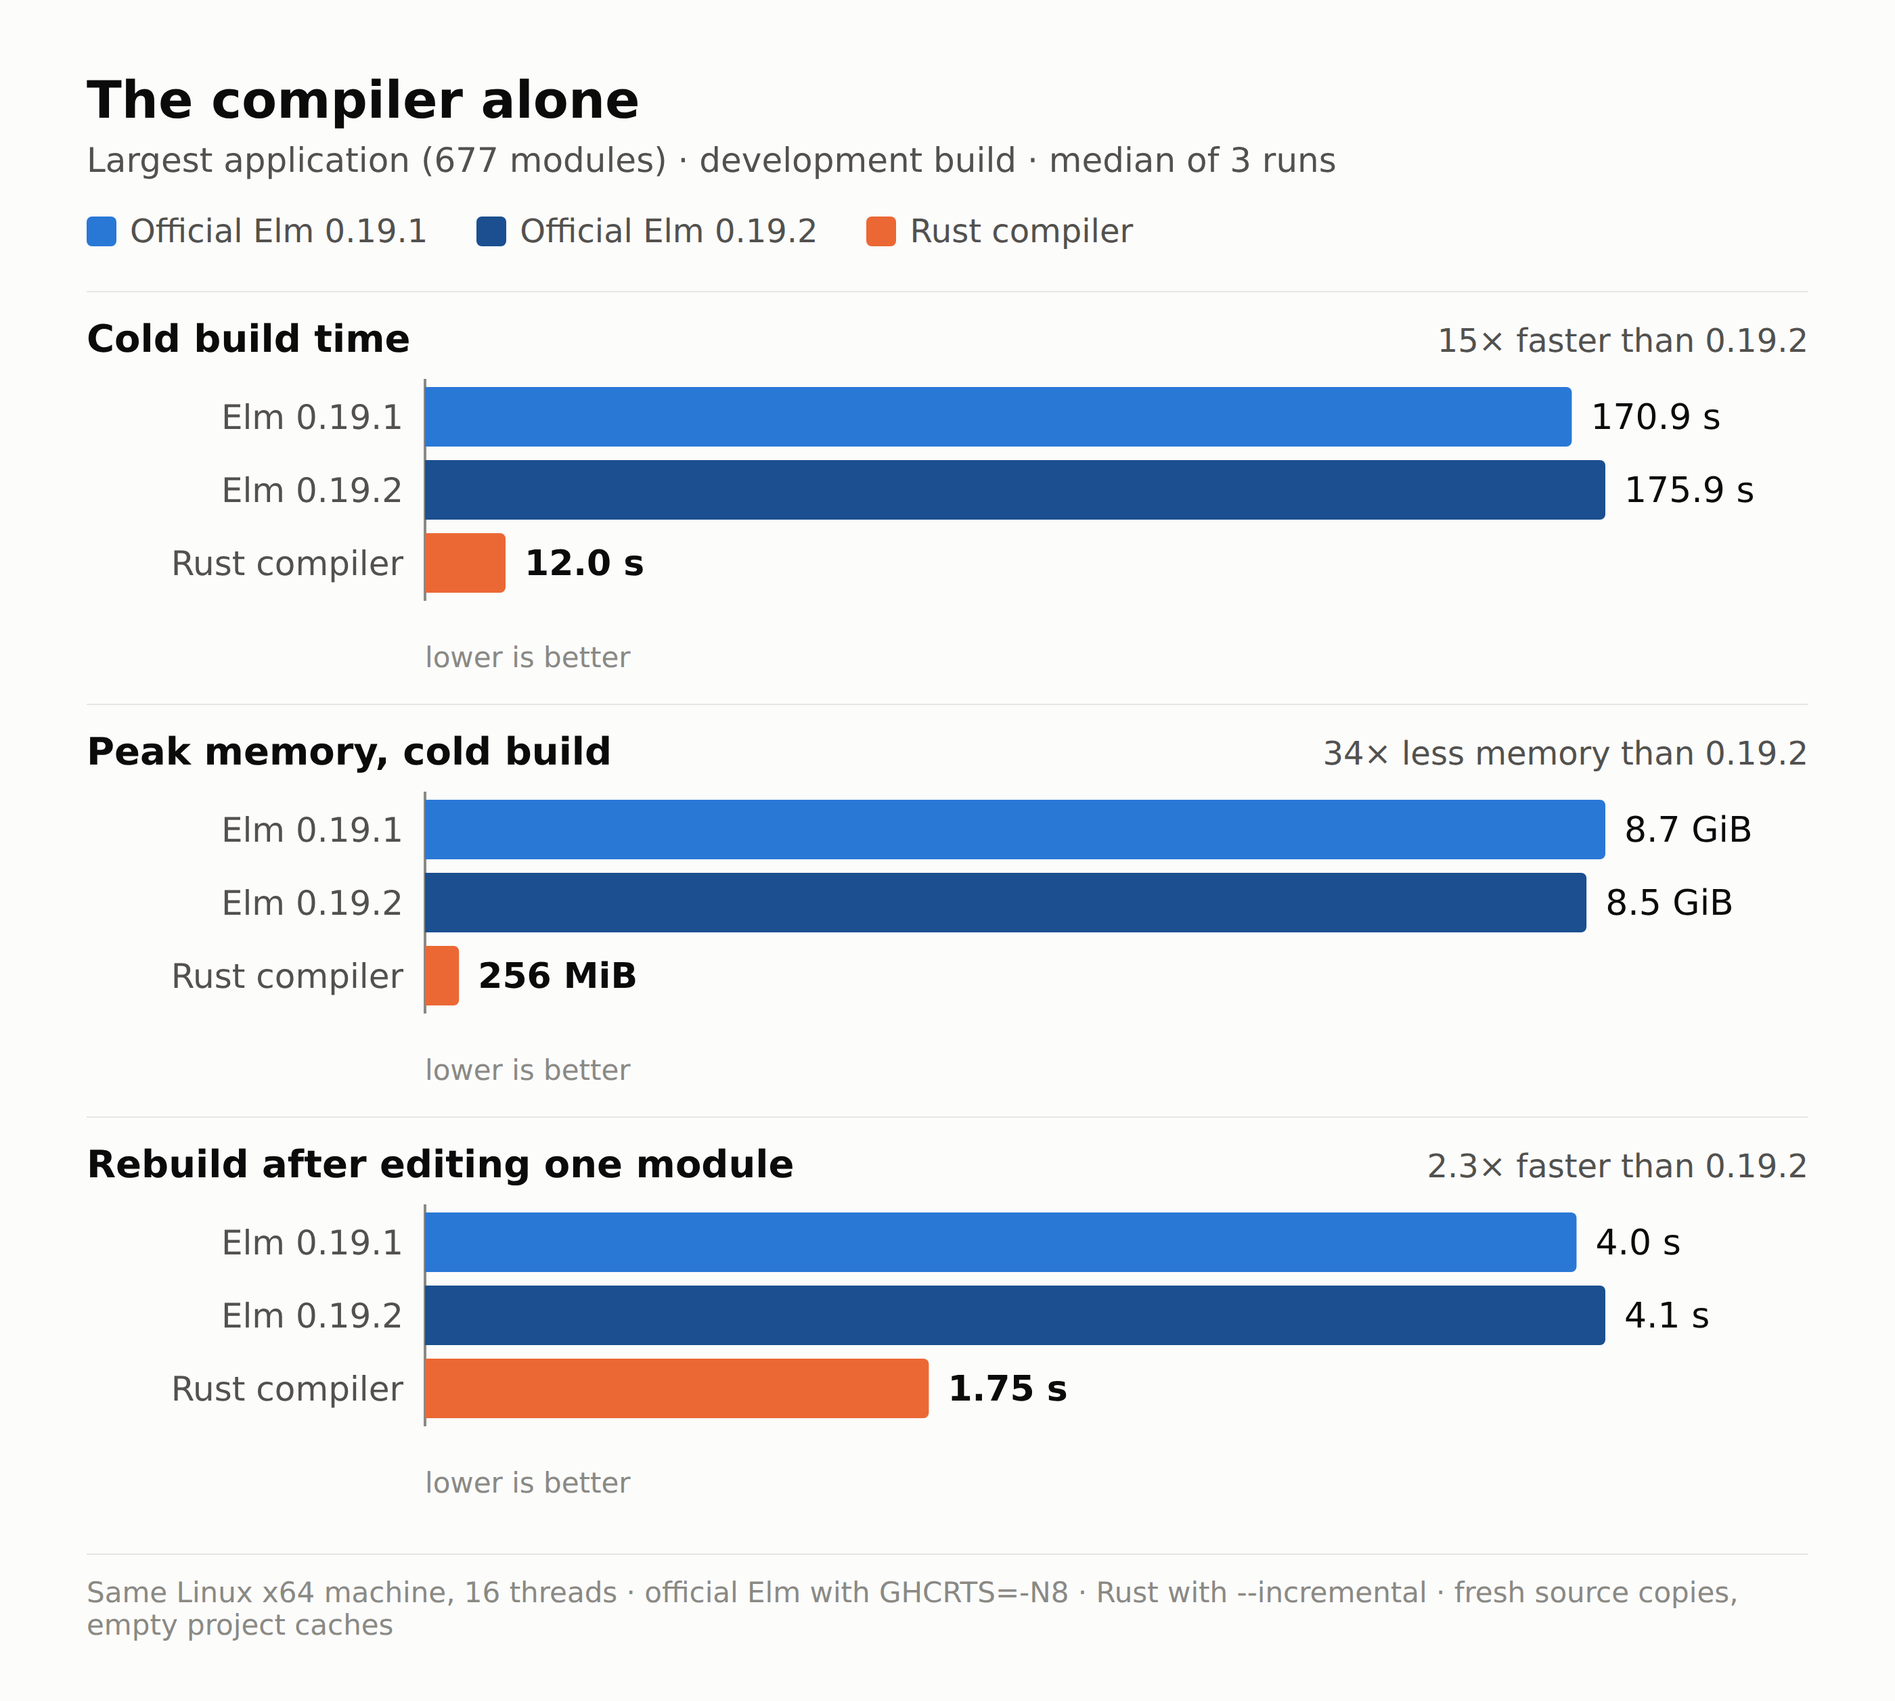
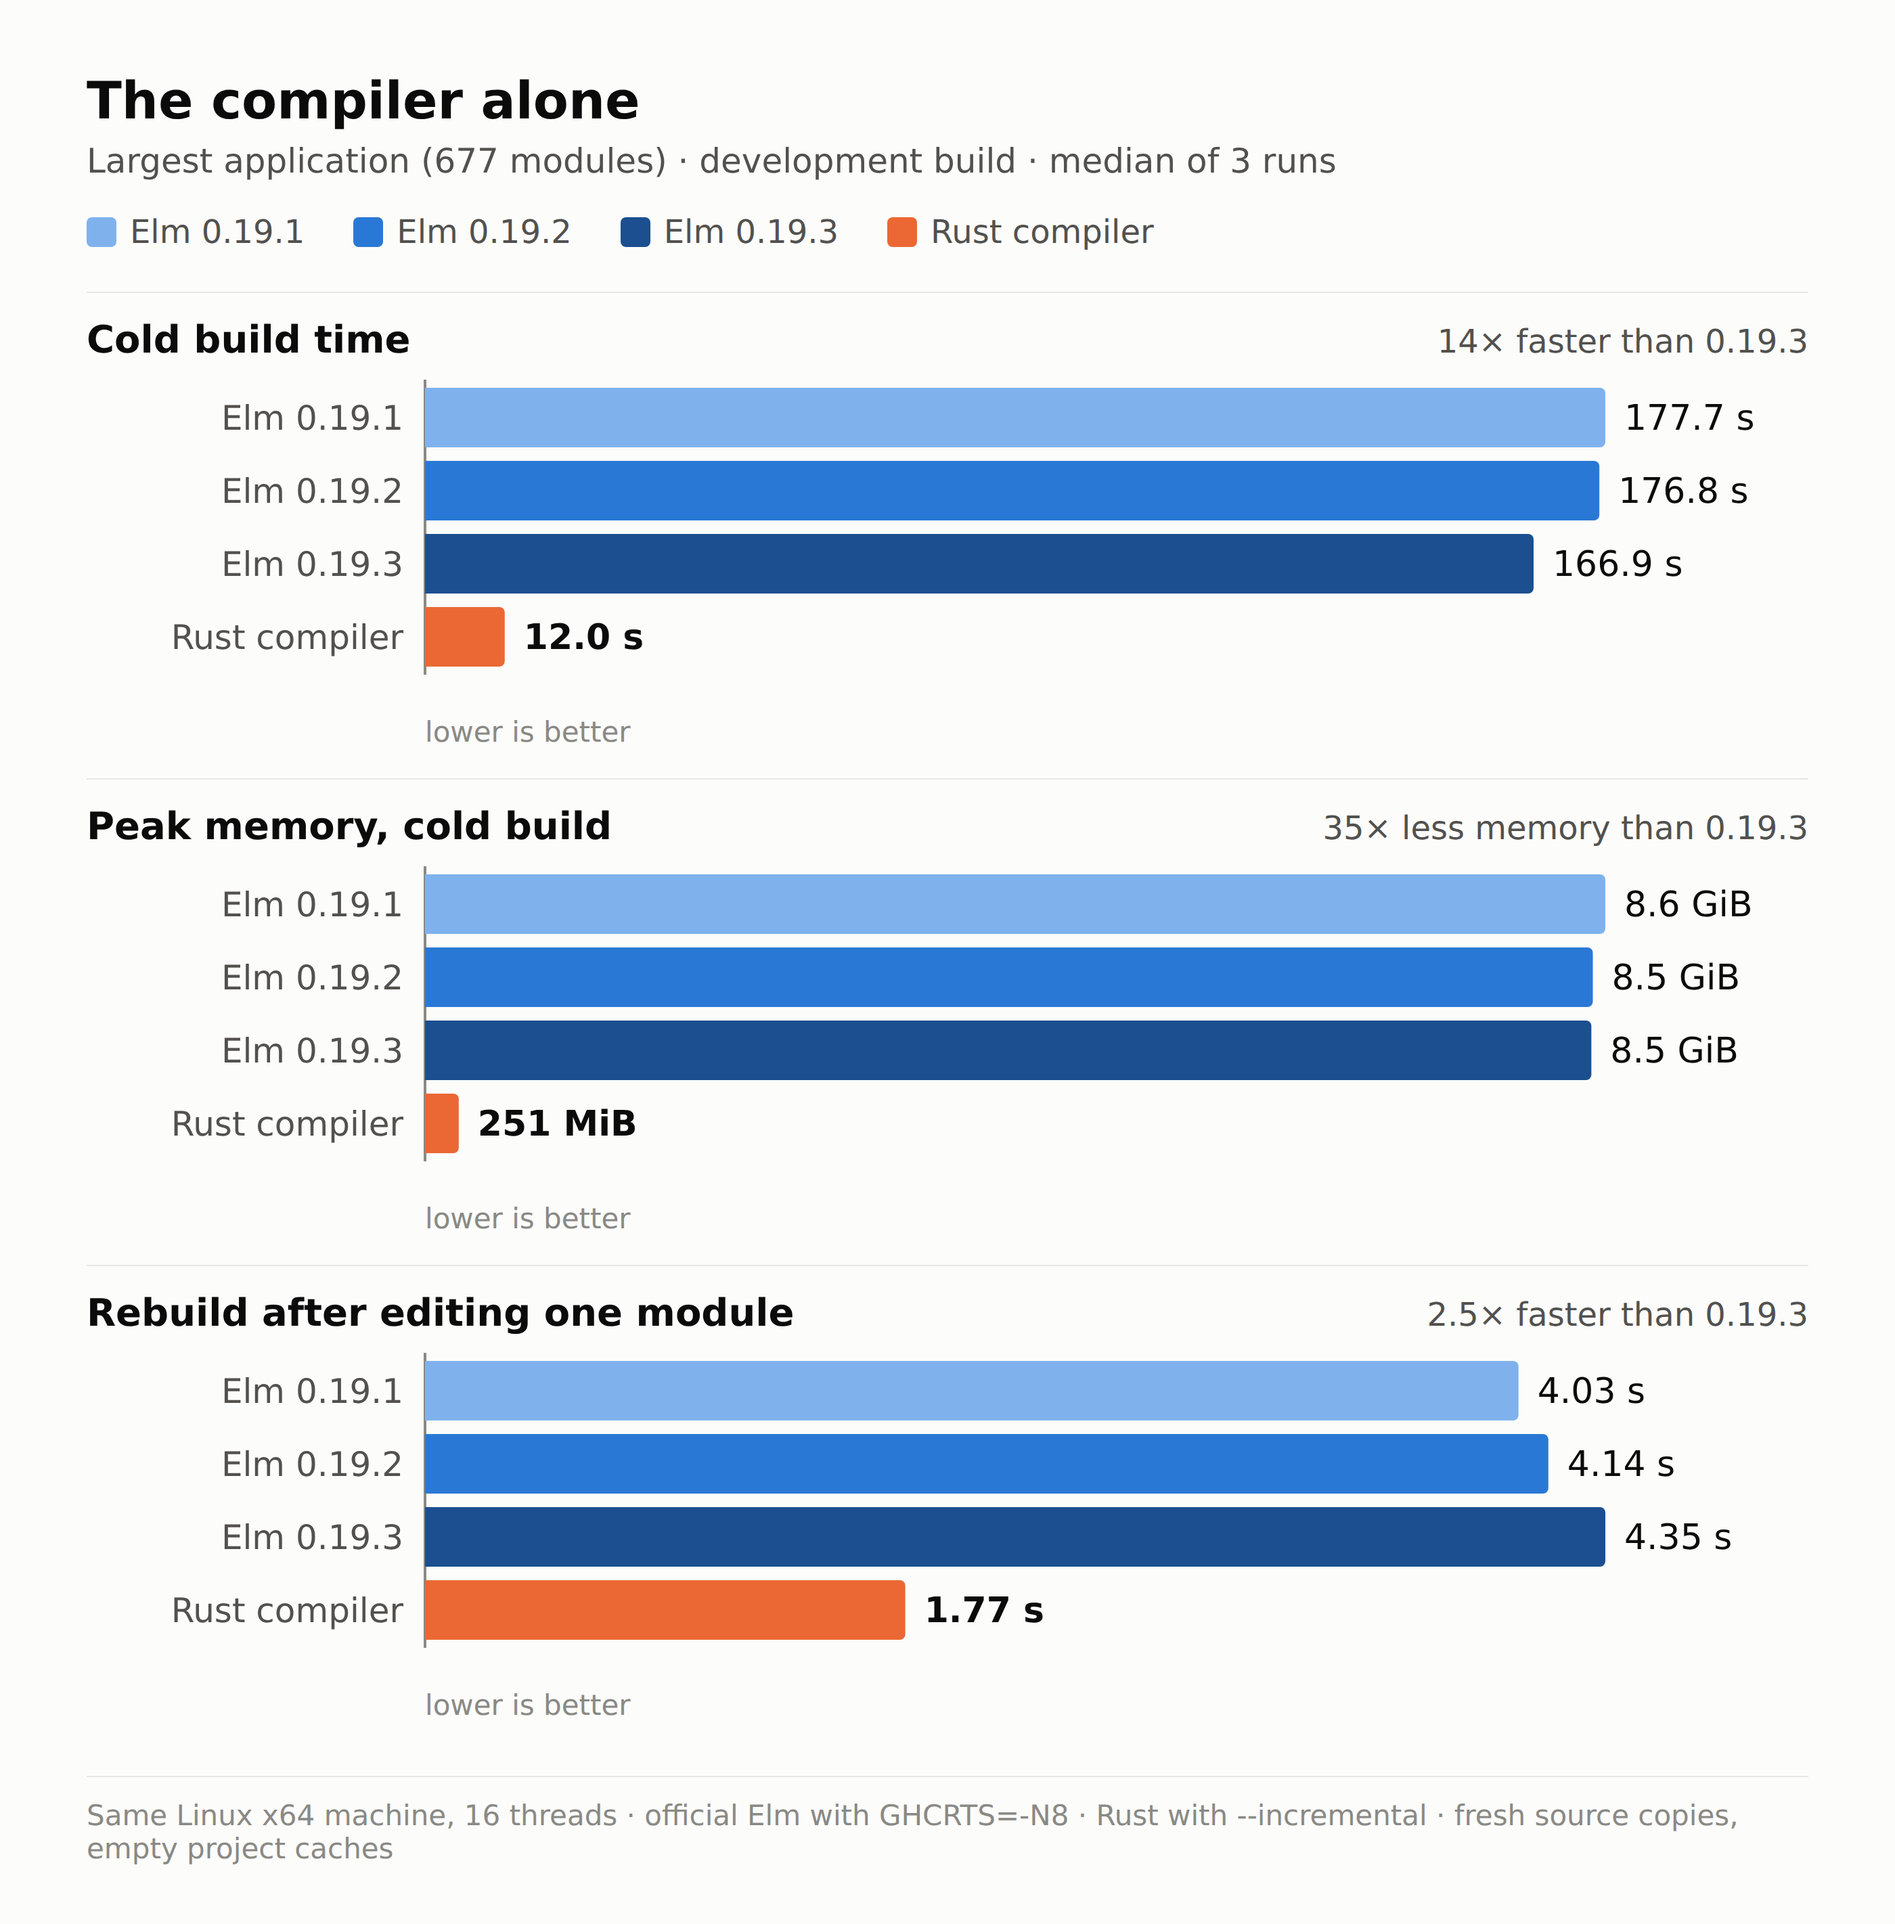
Release 0.3.0-alpha.8: follow Elm 0.19.3
README: Elm 0.19.3 measurements on our largest application, all four
compilers measured in the same session.

diff --git a/README.md b/README.md
@@ -8,20 +8,20 @@ It was built to compile a large production Elm codebase (ten applications,
 677 modules) faster and with far less memory. Largest application, development
 build (no `--optimize`), median of 3 runs on the same machine:
 
-|                                  | Elm 0.19.1        | Elm 0.19.2        | This compiler        |
-| -------------------------------- | ----------------- | ----------------- | -------------------- |
-| Cold build                       | 170.9 s · 8.7 GiB | 175.9 s · 8.5 GiB | **12.0 s · 256 MiB** |
-| Rebuild after editing one module | 4.0 s · 1.2 GiB   | 4.1 s · 1.2 GiB   | **1.75 s · 250 MiB** |
+|                                  | Elm 0.19.1        | Elm 0.19.2        | Elm 0.19.3        | This compiler        |
+| -------------------------------- | ----------------- | ----------------- | ----------------- | -------------------- |
+| Cold build                       | 177.7 s · 8.6 GiB | 176.8 s · 8.5 GiB | 166.9 s · 8.5 GiB | **12.0 s · 251 MiB** |
+| Rebuild after editing one module | 4.03 s · 1.2 GiB  | 4.14 s · 1.1 GiB  | 4.35 s · 1.1 GiB  | **1.77 s · 250 MiB** |
 
 _Linux x64, 16 threads, official Elm with 8 threads (`GHCRTS=-N8`), empty
 project caches, shared package cache, excluding bundling. This is one large
 codebase: Elm 0.19.2 reports large gains on other projects, and your
 numbers will differ; please share them in an issue._
 
-<p align="center"><img src="docs/benchmark.png" width="720" alt="Cold build time, peak memory and rebuild time for Elm 0.19.1, Elm 0.19.2 and this compiler on a 677-module application"></p>
+<p align="center"><img src="docs/benchmark.png" width="720" alt="Cold build time, peak memory and rebuild time for Elm 0.19.1, 0.19.2, 0.19.3 and this compiler on a 677-module application"></p>
 
 > **Status: alpha.** It compiles real applications that pass their test suites
-> and aims at full compatibility with Elm 0.19.1 and 0.19.2, with a few deliberate differences
+> and aims at full compatibility with Elm 0.19.1, 0.19.2 and 0.19.3, with a few deliberate differences
 > listed below. Read [Compatibility](#compatibility) before relying on it.
 
 This project is not affiliated with or endorsed by the Elm project.

diff --git a/npm/README.md b/npm/README.md
@@ -1,7 +1,7 @@
 # @spottt/elm-compiler
 
-A fast, **unofficial** Elm 0.19 compiler written in Rust (projects on 0.19.1
-or 0.19.2), with prebuilt
+A fast, **unofficial** Elm 0.19 compiler written in Rust (projects on 0.19.1,
+0.19.2 or 0.19.3), with prebuilt
 binaries for Linux (glibc) and macOS (x64, ARM64) and Windows (x64).
 
 ```sh
@@ -13,9 +13,9 @@ npx elm make src/Main.elm --output=main.js
 It provides the `elm` command (drop-in replacement; `planexpo-elm` is an
 alias). Install it instead of the official `elm` package, not alongside it.
 
-On a 677-module application, a cold development build takes 12 s and 256 MiB
-instead of 176 s and 8.5 GiB with official Elm 0.19.2 (171 s and 8.7 GiB with
-0.19.1; single machine, median of 3).
+On a 677-module application, a cold development build takes 12 s and 251 MiB
+instead of 167 s and 8.5 GiB with official Elm 0.19.3 (177 s with 0.19.2 and
+178 s with 0.19.1; single machine, median of 3).
 
 - The command line mirrors `elm`: `init`, `install`, `make` (`--output`,
   `--optimize`, `--debug`, `--report=json`, `--docs`), `repl`, `reactor`,
@@ -29,7 +29,7 @@ instead of 176 s and 8.5 GiB with official Elm 0.19.2 (171 s and 8.7 GiB with
   `node_modules/.bin`. `require('@spottt/elm-compiler').resolveBinary()`
   returns the native executable path.
 
-Status: alpha, aiming at full compatibility with Elm 0.19.1 and 0.19.2, with a few deliberate
+Status: alpha, aiming at full compatibility with Elm 0.19.1, 0.19.2 and 0.19.3, with a few deliberate
 fixes of known Elm defects. Documentation, compatibility notes and bug reports:
 https://github.com/Spottt/elm-compiler
 

diff --git a/CHANGELOG.md b/CHANGELOG.md
@@ -4,7 +4,7 @@ All notable changes are documented here. The format follows
 [Keep a Changelog](https://keepachangelog.com/en/1.1.0/) and the project uses
 [semantic versioning](https://semver.org).
 
-## [Unreleased]
+## [0.3.0-alpha.8] - 2026-10-07
 
 ### Added
 
